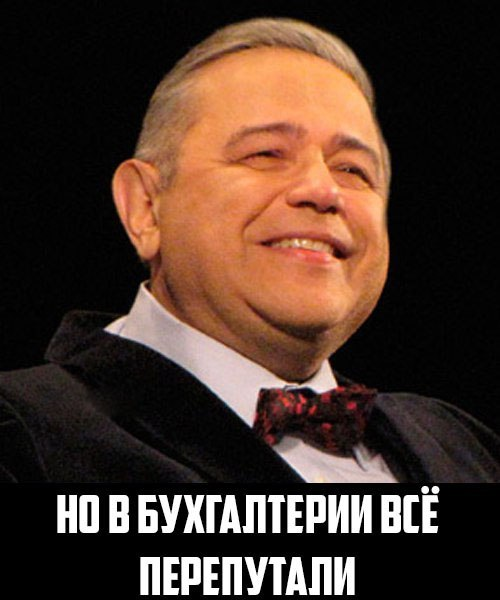
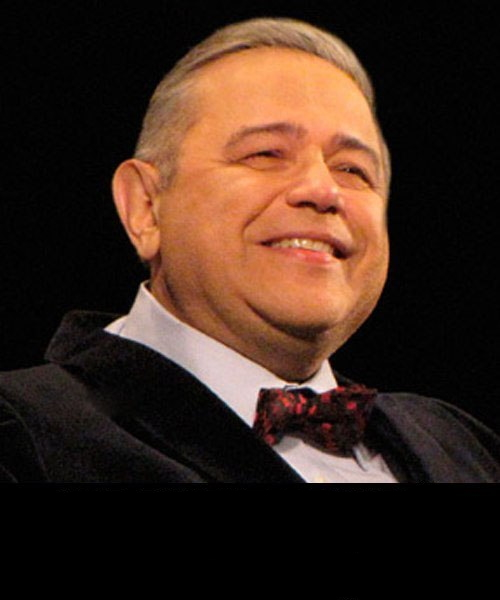
Fix petrosyan meme

Changed region(s): [[0.09, 0.81, 0.9, 0.9], [0.27, 0.93, 0.72, 1.0]]

diff --git a/inscript.py b/inscript.py
@@ -23,6 +23,7 @@ class InscriptionImage:
                  font_path: str,
                  message: str,
                  angle: float = 0,
+                 text_align: str = 'center',
                  stroke_color: Tuple[int, int, int, int] = (0, 0, 0, 255),
                  font_color: Tuple[int, int, int, int] = (255, 255, 255, 255)):
         """ Constructor"""
@@ -33,6 +34,7 @@ class InscriptionImage:
         self.font_path = font_path
         self.message = message
         self.angle = angle
+        self.text_align = text_align
         self.stroke_color = stroke_color
         self.font_color = font_color
         self.img = self.__create_inscription()
@@ -64,9 +66,10 @@ class InscriptionImage:
                 stroke_coords = self.__init_stroke(x, y)
                 for i in stroke_coords:
                     draw.multiline_text(i, message, self.stroke_color,
-                                        font, align='center')
+                                        font, align=self.text_align)
                 draw.multiline_text((x, y), message, self.font_color,
-                                    font, align='center')
+                                    font, align=self.text_align)
+
                 return img
 
 
@@ -96,6 +99,8 @@ def __parse_tag(tag: str, len_message: int) -> str:
         tag = 'torero'
     elif tag in app_var.CANDLE_TAGS:
         tag = 'candle'
+    elif tag in app_var.PETROSYAN_TAGS:
+        tag = 'petrosyan'
     else:
         tag = 'blank'
     return tag
@@ -237,15 +242,20 @@ def __image_processing(tag: str = None,
         inscript.append(InscriptionImage(area, pos_3, font, text_3))
         inscript.append(InscriptionImage(area, pos_4, font, text_4))
     elif tag == 'candle':
-        area = (200, 150)
-        pos = (350, 150)
+        area = (200, 100)
+        pos = (390, 160)
+        text = message[0]
+        inscript.append(InscriptionImage(area, pos, font, text,
+                                         text_align='left',
+                                         font_color=(170, 110, 60, 255)))
+    elif tag == 'petrosyan':
+        area = (500, 120)
+        pos = (250, 540)
         text = message[0]
         inscript.append(InscriptionImage(area,
                                          pos,
                                          font,
-                                         text,
-                                         font_color=(170, 110, 60, 255)))
-        pass
+                                         text))
     else:
         area = (290, 140)
         pos = (center_x, center_y)
